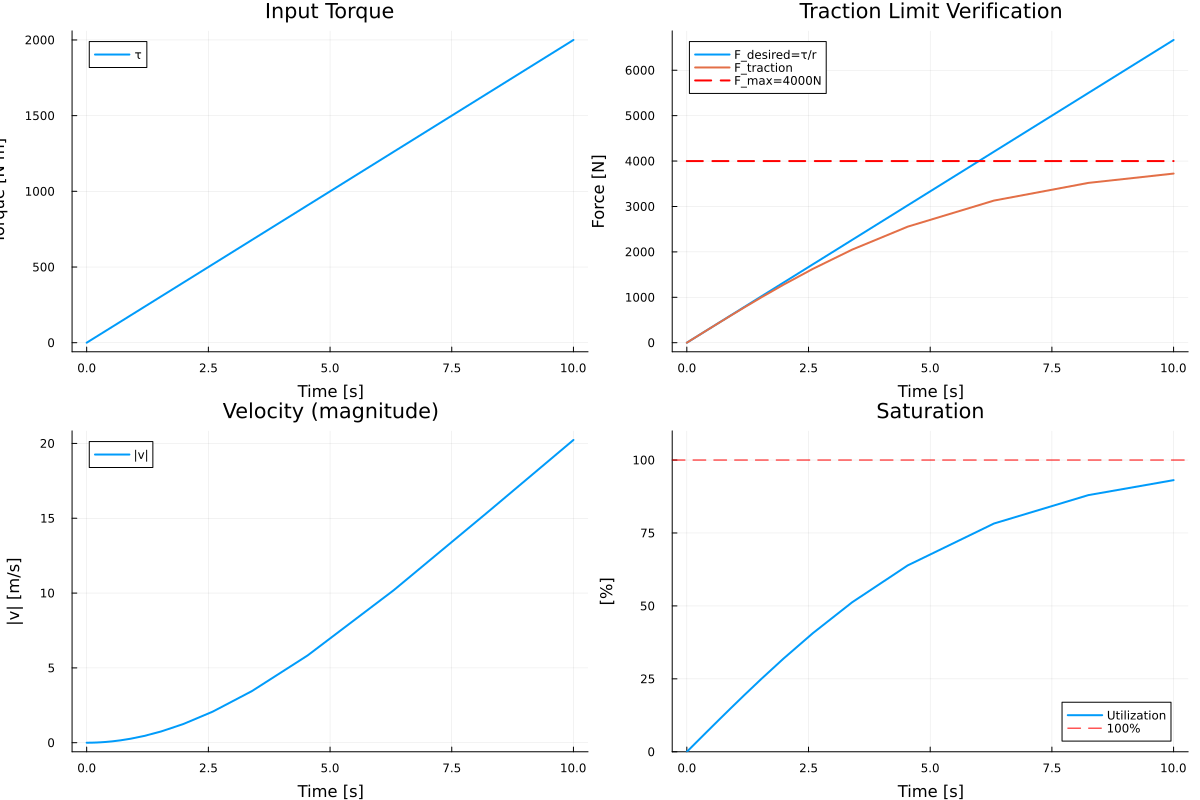
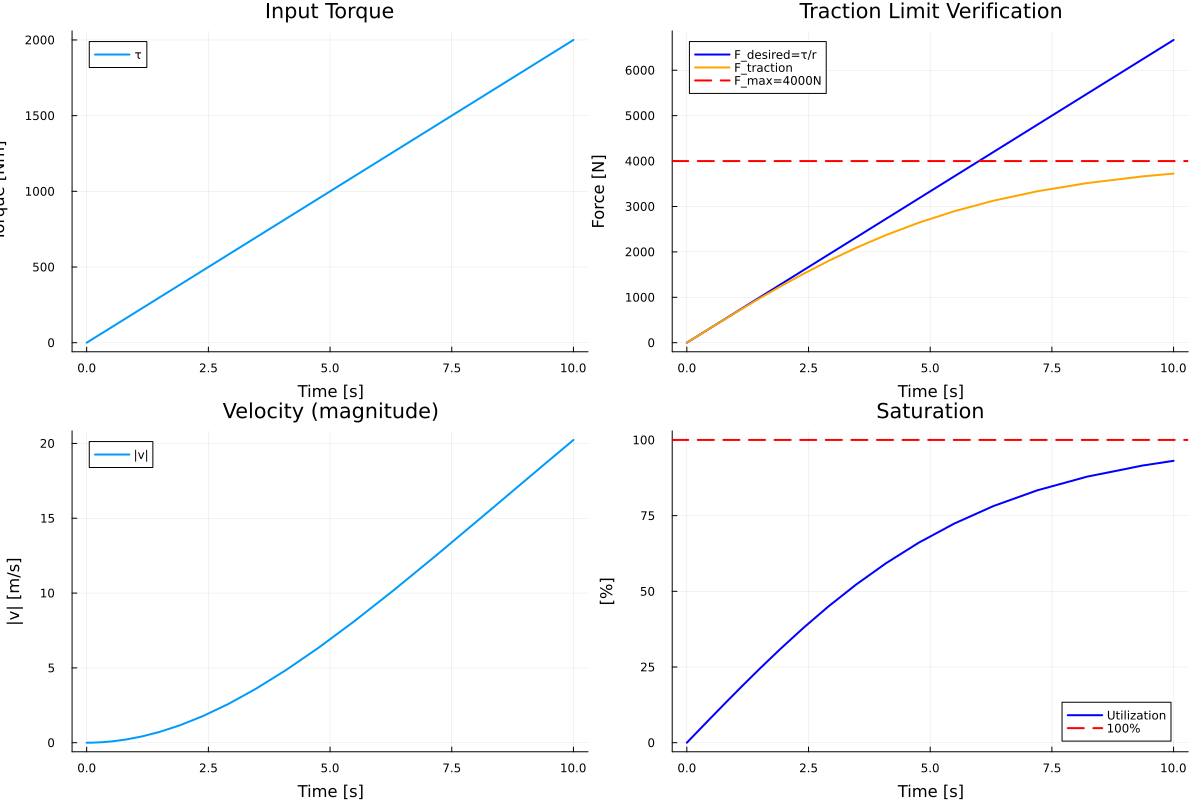
test 3

diff --git a/ProjectWheelLuuk.md b/ProjectWheelLuuk.md
@@ -42,6 +42,7 @@ The traction force scales with the normal force:
 N = 3000 N: F_max = 2400 N, 100% saturated, v = 16.3 m/s
 N = 5000 N: F_max = 4000 N, 98.7% saturated, v = 24.0 m/s
 N = 7000 N: F_max = 5600 N, 94.5% saturated, v = 29.3 m/s
+- absolute speeds
 
 ![alt text](./TestWheel_LoadTransfer_Validation.png)
 
@@ -53,9 +54,7 @@ N = 7000 N: F_max = 5600 N, 94.5% saturated, v = 29.3 m/s
 - Check power conservation: τ·ω = F·v (when not saturated)
 - Verify no slip occurs when within traction limit
 
-J=0
-
-a lot of errors: start over with testwheelkinematics, WheelcontactBreakout (to original), and Wheel.dyad (changes)
+Implementation of the kinematic equations in Wheel.dyad
 
 
 
